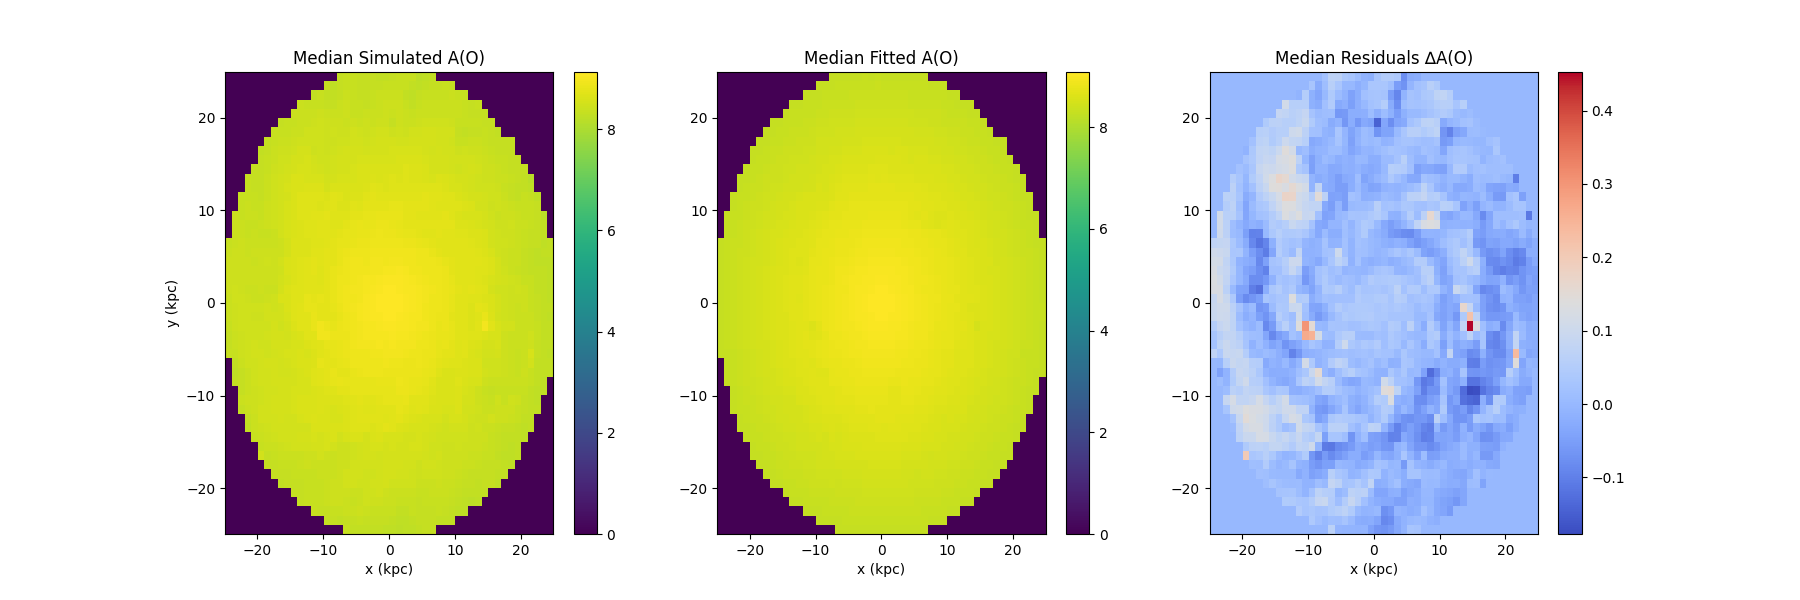
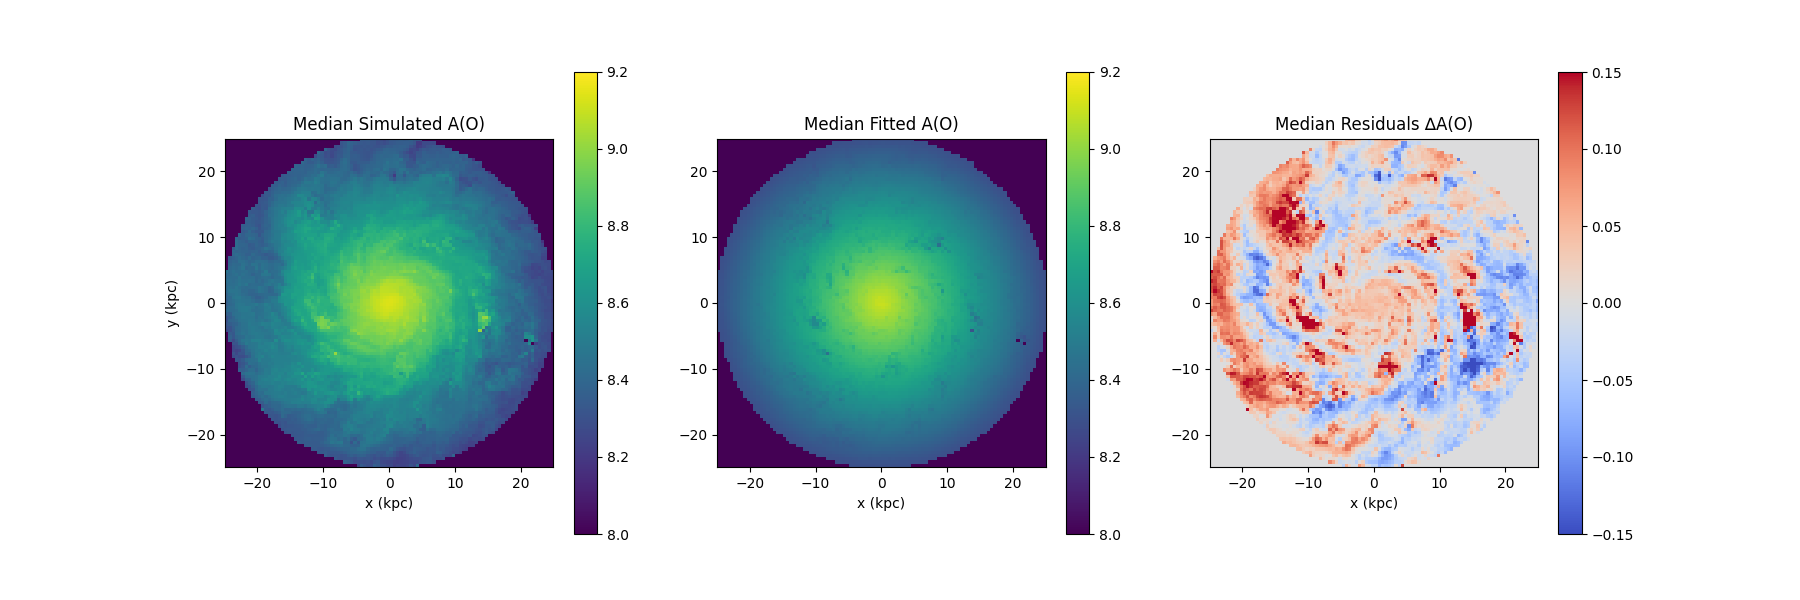
made changes to vmin vmax of colourmaps and regenerated figures

diff --git a/metallicity.py b/metallicity.py
@@ -64,7 +64,7 @@ plt.close(fig)
 rmse = np.sqrt(np.mean(residuals**2))
 
 # Generate 2D histograms for the x vs y plane
-bins = 50  # Define number of bins for 2D histogram
+bins = 100  # Define number of bins for 2D histogram
 
 # (a) 2D-histogram of the median simulated A(O)
 hist_a, xedges, yedges = np.histogram2d(x, y, bins=bins, weights=ao, density=False)
@@ -83,22 +83,29 @@ median_residuals = np.divide(hist_r, count_a, out=np.zeros_like(hist_r), where=c
 fig, axes = plt.subplots(1, 3, figsize=(18, 6))
 
 # (a) Median simulated A(O)
-im1 = axes[0].imshow(median_ao.T, origin='lower', aspect='auto', extent=[xedges[0], xedges[-1], yedges[0], yedges[-1]], cmap='viridis')
+im1 = axes[0].imshow(median_ao.T, origin='lower', aspect='auto',
+                     extent=[xedges[0], xedges[-1], yedges[0], yedges[-1]], cmap='viridis', vmin=8, vmax=9.2)
 axes[0].set_title('Median Simulated A(O)')
 axes[0].set_xlabel('x (kpc)')
 axes[0].set_ylabel('y (kpc)')
+axes[0].set_aspect('equal')
 fig.colorbar(im1, ax=axes[0])
 
 # (b) Median fitted A(O)
-im2 = axes[1].imshow(median_fitted_ao.T, origin='lower', aspect='auto', extent=[xedges[0], xedges[-1], yedges[0], yedges[-1]], cmap='viridis')
+im2 = axes[1].imshow(median_fitted_ao.T, origin='lower', aspect='auto',
+                     extent=[xedges[0], xedges[-1], yedges[0], yedges[-1]], cmap='viridis', vmin=8, vmax=9.2)
 axes[1].set_title('Median Fitted A(O)')
 axes[1].set_xlabel('x (kpc)')
+axes[1].set_aspect('equal')
 fig.colorbar(im2, ax=axes[1])
 
 # (c) Median residuals ∆A(O)
-im3 = axes[2].imshow(median_residuals.T, origin='lower', aspect='auto', extent=[xedges[0], xedges[-1], yedges[0], yedges[-1]], cmap='coolwarm')
+im3 = axes[2].imshow(median_residuals.T, origin='lower', aspect='auto',
+                     extent=[xedges[0], xedges[-1], yedges[0], yedges[-1]],
+                     cmap='coolwarm', vmin=-0.15, vmax=0.15)  
 axes[2].set_title('Median Residuals ∆A(O)')
 axes[2].set_xlabel('x (kpc)')
+axes[2].set_aspect('equal')
 fig.colorbar(im3, ax=axes[2])
 
 # Save 3-panel figure
